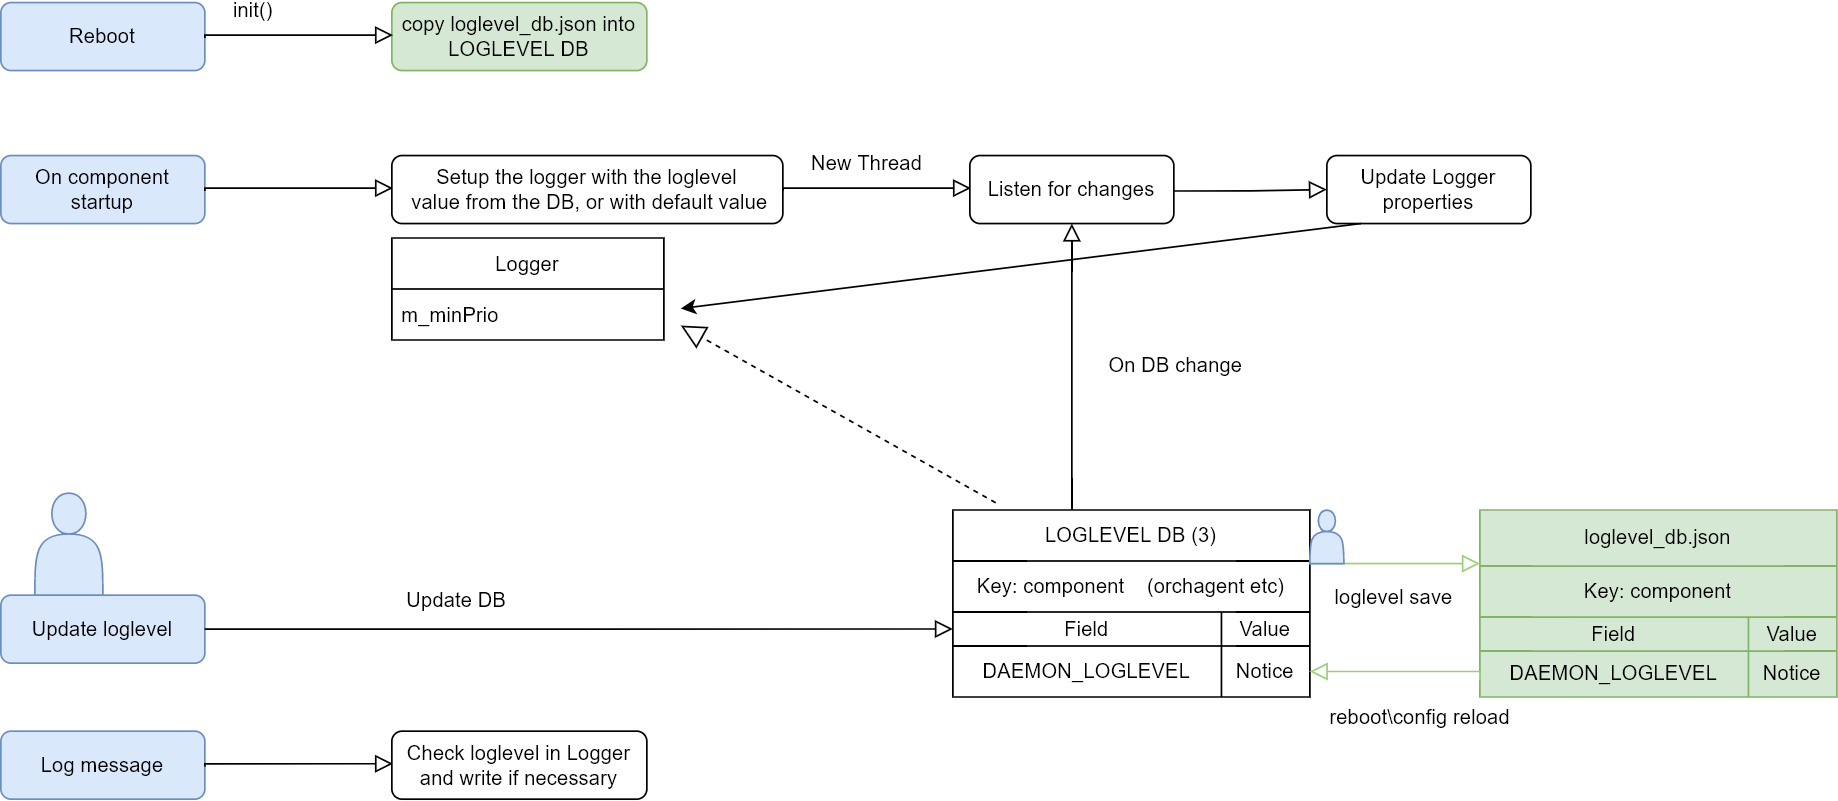
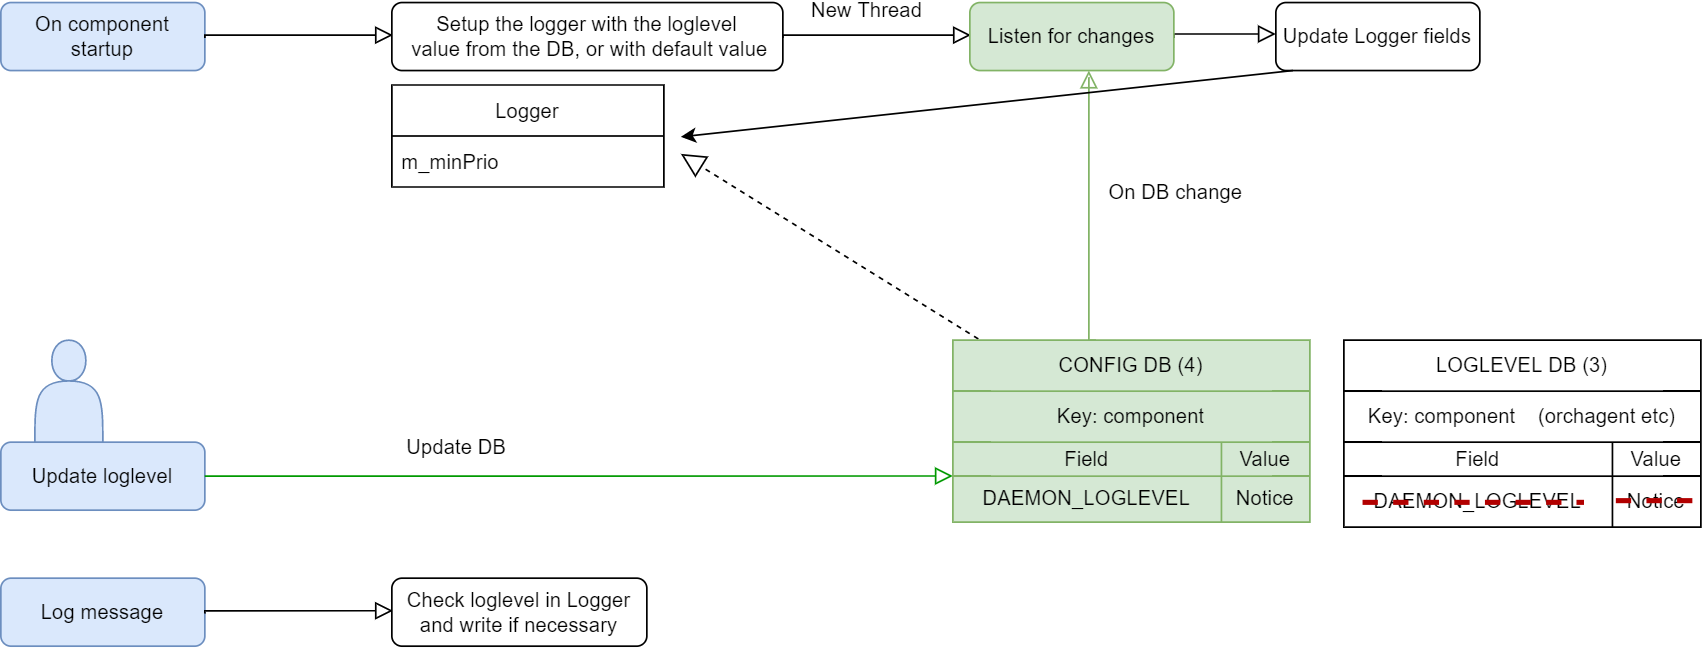
update not removing LOGLEVEL DB

diff --git a/doc/logging/persistent_logger/persistent_loglevel.md b/doc/logging/persistent_logger/persistent_loglevel.md
@@ -1,11 +1,11 @@
-# Persistent logger HLD
+# Persistent log level HLD
 
 # High Level Design Document
 
 #### Rev 0.1
 
 # Table of Contents
-- [Persistent logger HLD](#persistent-logger-hld)
+- [Persistent log level HLD](#persistent-log-level-hld)
 - [High Level Design Document](#high-level-design-document)
       - [Rev 0.1](#rev-01)
 - [Table of Contents](#table-of-contents)
@@ -21,20 +21,22 @@
 - [2 Requirements Overview](#2-requirements-overview)
 - [3 Persistent log level design](#3-persistent-log-level-design)
   - [3.1 High-level design](#31-high-level-design)
-  - [3.2 Persistent logger flow](#32-persistent-logger-flow)
-    - [3.2.1 Return to default log level](#321-return-to-default-log-level)
+    - [3.1.1 Move Logger's tables which store in LOGLEVEL DB to CONFIG DB](#311-move-logger's-tables-which-store-in-loglevel-db-to-config-db)
+    - [3.1.2 Update "swssloglevel" script](#312-update-"swssloglevel"-script)
+    - [3.1.3 Make the log level persistent using the "config save" CLI command](#313-make-the-log-level-persistent-using-the-"config-save"-cli-command)
+    - [3.1.4 Listener thread tables](#314-listener-thread-tables)
+  - [3.2 Persistent Logger flow](#32-persistent-logger-flow)
 - [4 Flows](#4-flows)
   - [4.1 System init flow](#41-system-init-flow)
-  - [4.2 "config reload" flow](#42-"config-reload"-flow)
-  - [4.3 "config save" flow](#43-"config-save"-flow)
-- [5 Warm Reboot Support](#5-warm-reboot-support)
-- [6 Fast Boot Support](#6-fast-boot-support)
-- [7 Testing](#7-Testing)
-  - [7.1 Unit Testing](#71-unit-testing)
-  - [7.2 Manual Testing](#72-manual-testing)
-- [8 Open issues](#8-open-issues)
-  - [8.1 Allow changing the default log level in first boot](#81-allow-changing-the-default-log-level-in-first-boot)
-  - [8.2 Support ZTP configuration](#82-support-ztp-configuration)
+- [5 Cold and Fast Reboot Support](#5-cold-and-fast-reboot-support)
+- [6 Warm Reboot Support](#6-warm-reboot-support)
+- [7 Yang model](#7-yang-model)
+- [8 Testing](#8-testing)
+  - [8.1 Unit Testing](#81-unit-testing)
+  - [8.2 Manual Testing](#82-manual-testing)
+
+
+
 # List of Tables
 * [Table 1: Abbreviations](#definitionsabbreviation)
 
@@ -113,16 +115,44 @@ admin@sonic:~$ redis-cli -n 3 HGETALL "orchagent:orchagent"
 
 The persistent Logger should meet the following high-level functional requirement:
 - The user will be able to save the configuration of the loglevel and make it persistent after reboot.
-- Not impact warm/fast reboot when the user uses the default configuration.
+- Warm/Fast reboot won't be impacted following this change.
 
 # 3 Persistent log level design
 ## 3.1 High-level design
 
-To make the loglevel persistent to reboot, we will move the LOGLEVEL DB content into the Config DB. Since the Config DB is already persistent, the log level will also be persistent to reboot. The log level will be saved using the "config save" CLI command.
+To make the loglevel persistent to reboot, we will move the Logger's tables in LOGLEVEL DB to CONFIG DB. Since the Config DB is already persistent, the log level will also be persistent to reboot. The log level will be saved using the "config save" CLI command.
 
-### 3.1.1 CONFIG DB schema
+### 3.1.1 Move Logger's tables which store in LOGLEVEL DB to CONFIG DB
 
- - A new "LOGGER" table will be added to the CONFIG DB:
+#### Current LOGLEVEL DB schema:
+
+ ```json
+{
+  "orchagent": {
+    "orchagent": {
+      "LOGLEVEL": "INFO",
+      "LOGOUTPUT": "SYSLOG"
+    }
+  },
+
+  "SAI_API_BUFFER": {
+    "SAI_API_BUFFER": {
+      "LOGLEVEL": "SAI_LOG_LEVEL_NOTICE",
+      "LOGOUTPUT": "SYSLOG"
+    }
+  },
+
+  "JINJA2_CACHE": { // A bytecode cache for jinja2 template that stores bytecode in Redis
+    ...
+  }
+}
+```
+
+#### New CONFIG DB schema:
+
+ - A new "LOGGER" table will be added to the CONFIG DB.
+ - There will be a minor change in the table keys(instead of "{componentName}:{componentName}" the key will be  the "Logger:{componentName}").
+ - The filed logoutput that indicates to which file to print the logs will also be persistent.
 
 ```json
 {
@@ -130,28 +160,40 @@ To make the loglevel persistent to reboot, we will move the LOGLEVEL DB content 
     "orchagent": {
       "LOGLEVEL": "INFO",
       "LOGOUTPUT": "SYSLOG"
+    },
+
+    "SAI_API_BUFFER": {
+      "LOGLEVEL": "INSAI_LOG_LEVEL_NOTICEFO",
+      "LOGOUTPUT": "SYSLOG"
     }
   }
 }
 ```
 
- There will be a minor change in the table keys(instead of "{componentName}:{componentName}" the key will be just the "{componentName}").
 
-### 3.1.2 Delete LOGLEVEL DB
-???
- - We will remove LOGLEVEL DB?
- - CHANGE SCHEMA.H NO DB 3
+#### New LOGLEVEL DB schema:
 
-### 3.1.3 Add "config loglevel" CLI command to replace the "swssloglevel" script
+  - After moving the Logger's table from LOGLEVEL DB, the leftover in LOGLEVEL DB will be the JINJA2_CACHE key.
+  - We will update the /sonic-swss-common/common/schema.h file to include the "JINJA2_CACHE" key.
 
-In the current implementation the "swssloglevel" script sets the log level in the LOGLEVEL DB. We will replace the script with a CLI command with the same functionality, execet that the log level will be saved in the CONFIG DB.
+ ```json
+{
+  "JINJA2_CACHE": {
+    ...
+  }
+}
+```
 
-To allow the user to set the default log level value for all the components, we will add a -d flag to the "config loglevel" command.
+### 3.1.2 Update "swssloglevel" script
+
+In the current implementation, the "swssloglevel" script sets the log level in the LOGLEVEL DB.
+- We will update the script so that the log level will be saved in the CONFIG DB.
+- To allow the user to set the default log level value for all the components, we will add a -d flag to the "swssloglevel" script.
 
 ```
-admin@sonic:~$ config loglevel -h
+admin@sonic:~$ swssloglevel -h
 
-Usage: config loglevel [OPTIONS]
+Usage: swssloglevel [OPTIONS]
 SONiC logging severity level setting.
 
 Options:
@@ -161,31 +203,56 @@ Options:
 	 -a	apply loglevel to all components (provided with -l)
 	 -s	apply loglevel for SAI api component (equivalent to adding prefix "SAI_API_" to component)
 	 -p	print components registered in DB for which setting can be applied
-   -d return all components to default loglevel
+         -d return all components to default loglevel
 
 Examples:
-	config loglevel -l NOTICE -c orchagent # set orchagent severity level to NOTICE
-	config loglevel -l SAI_LOG_LEVEL_ERROR -s -c SWITCH # set SAI_API_SWITCH severity to ERROR
-	config loglevel -l SAI_LOG_LEVEL_DEBUG -s -a # set all SAI_API_* severity to DEBUG
-  config loglevel -d #return all components to default loglevel
+	swssloglevel -l NOTICE -c orchagent # set orchagent severity level to NOTICE
+	swssloglevel -l SAI_LOG_LEVEL_ERROR -s -c SWITCH # set SAI_API_SWITCH severity to ERROR
+	swssloglevel -l SAI_LOG_LEVEL_DEBUG -s -a # set all SAI_API_* severity to DEBUG
+        swssloglevel -d #return all components to default loglevel
 ```
+The change is the file: /sonic-swss-common/common/loglevel.cpp
 
-### 3.1.4 Make the log level persistent using the "config save" CLI command
+### 3.1.3 Make the log level persistent using the "config save" CLI command
 
-The content of the CONFIG DB will load into the config_db.json. This is the behavior we have today, and it remains as it is. If the user configures loglevel for some component and runs "config save" the loglevel will be persistent.
+The content of the CONFIG DB will load to the config_db.json. This is our behavior today, and it remains as it is. If the user configures loglevel for some component and runs "config save" the loglevel will be persistent.
 
-### 3.1.5 Listener thread tables
+### 3.1.4 Listener thread tables
 
-In the current implementation, each component has a listener thread that registers to the LOGLEVEL DB table. Each change in the LOGLEVEL DB table is caught by the thread and trigger handler that change the component's Logger configuration. We will keep the same behavior on the CONFIG DB.
+In the current implementation, each component has a listener thread that registers to the LOGLEVEL DB table. Each change in the LOGLEVEL DB table is caught by the thread and trigger handler that change the component's Logger configuration. We will keep the same behavior on the CONFIG DB by changing the "settingThread" function.
+This change will impact the following components:
 
-## 3.2 Persistent logger flow
+buffermgrd                    
+coppmgrd                      
+fdbsyncd                      
+fpmsyncd                      
+gearsyncd                     
+intfmgrd                     
+nbrmgrd
+neighsyncd
+orchagent
+portmgrd                      
+portsyncd                  
+syncd                 
+teammgrd                  
+teamsyncd               
+tlm_teamd                    
+tunnelmgrd                 
+vlanmgrd                      
+vrfmgrd                      
+vxlanmgrd                    
+wjhd   
+
+The change is the file: /sonic-swss-common/common/logger.cpp
+
+## 3.2 Persistent Logger flow
 
 - Each component has a singleton Logger object with a log level property and listener thread.
 - When a component writes a log message, the Logger writes the message only if the loglevel of the message is above the current loglevel property.
-- When the user wants to set a new log level to a component, he uses the "config loglevel" CLI command. The "config loglevel" CLI command sets the new verbosity to the CONFIG DB (database #4).
+- When the user wants to set a new log level to a component, he uses the "swssloglevel" script. The "swssloglevel" script sets the new verbosity to the CONFIG DB (database #4).
 - The CONFIG DB change triggers an event, which is caught by the listener thread.
 - The listener thread changes the loglevel property of the Logger.
-- The user can use the "config save" command to save the current loglevel and make it persistent. It will copy the CONFIG DB content into the config_db.json.
+- The user can use the "config save" command to save the current loglevel and make it persistent. It will copy the CONFIG DB content to the config_db.json.
 
 In addition to the log level, the CONFIG DB contains the log output file. After "config save" the log output will be persistent to reboot too.
 
@@ -195,7 +262,7 @@ In addition to the log level, the CONFIG DB contains the log output file. After 
 
 
 
-![persistent logger flow](/doc/logging/persistent_logger/persistent_loglevel.png)
+![persistent logger flow](/doc/logging/persistent_logger/persistent_logger.png)
 
 
 
@@ -203,31 +270,27 @@ In addition to the log level, the CONFIG DB contains the log output file. After 
 
 
 
-# 4 Flows???????
+# 4 Flows
 
 ## 4.1 System init flow
 
-When the system startup and the Database container initialize, the config_db.json loads into the CONFIG DB.
+When the system startup and the Database container initialize, and the config_db.json loads to CONFIG DB.
  
-  - There is a concern about the log level of messages written before the database container is initialized (if it exists). From my understanding, the RSYSLOG-CONFIG is up only after the DATABASE container, so there won't be logs before the loglevel_db.json loads into the LOGLEVEL DB. In case there are messages before the loading, the messages will be in the default log level.
+  - There is a concern about the log level of messages written before the database container is initialized (if it exists). From my understanding, the RSYSLOG-CONFIG is up only after the DATABASE container, so there won't be logs before the config_db.json loads to the CONFIG DB. In case there are messages before the loading, the messages will be in the default log level.
 
 
 # 5 Cold and Fast Reboot Support
   
-  The current implementation support cold and fast reboot. Sine in the cold and fast reboot, the CONFIG DB content is deleted the user need to run "config save" to make the log level persistent to cold and fast reboot.
+  The current implementation support cold and fast reboot. Sine in the cold and fast reboot, the CONFIG DB content is deleted, the user needs to run "config save" to make the log level persistent to cold and fast reboot.
 
 # 6 Warm Reboot Support
 
-  With current implementation, we don't flush the CONFIG DB before warm-reboot, which means that if the user configures some loglevel (for example, debug), after warm-reboot, the system startup with the same configurable loglevel (debug).
-
-  ?????
-  Because we want to make the log level persistent to reboot only by the "log-level save" CLI command we will add the LOGLEVEL DB to the list of the dbies we flush before warm-reboot.
-  During boot time, in the startup, the loglevel_db.json will load on the LOGLEVEL DB.
+  With the current implementation, we don't flush the CONFIG DB before warm-reboot, which means that if the user configures some loglevel (for example, debug), after warm-reboot, the system startup with the same configurable loglevel (debug).
 
 # 7 Yang model
 
-  The following YANG model will be added in order to provide support for the logger:
-   - sonic-logger.yang -> container LOGGER
+  The following YANG model will be added in order to provide support for the Logger:
+   - sonic-logger.yang
 
    ```
     description "Logger Table yang Module for SONiC";
@@ -287,17 +350,20 @@ When the system startup and the Database container initialize, the config_db.jso
 
 
 # 8 Testing
-
-## 8.1 update existing tests
   
-  - Update logger tests.
-  - Update other tests that use the logger table.
-
 ## 8.1 Unit Testing
-  
+
+  - Update the existing test that uses the LOGLEVEL DB:
+    /sonic-swss-common/tests/logger_ut.cpp
+
+  - Verify the log levels of all components returns to default after running "swssloglevel -d":
+    - Change the log level for some components from Notice to Info.
+    - Run "swssloglevel -d".
+    - Verify all components return to the default log level.
+
   - Yang model tests:
-    - Logger table with wrong loglevel, or with wrong logoutput
-    - Logger table without loglevel or logoutput
+    - Logger table with a wrong loglevel, or with a wrong logoutput
+    - Logger table without loglevel or logoutput fileds
     - Logger table with valid values
 
 ## 8.2 Manual Testing 
@@ -308,21 +374,9 @@ When the system startup and the Database container initialize, the config_db.jso
     - Verify the loglevel.json file was created.
     - Reboot.
     - Verify the log level is "Info".
-  - Verify the log level is not persistent to cold/fast/warm reboot if the user didn't run "config save": 
-    - Change the log level for some component from Notice to Info.
+  - Verify the log level is not persistent to cold/fast reboot if the user didn't run "config save": 
+    - Change the log level for some components from Notice to Info.
     - Reboot.
     - Verify the log level is "Notice".
-  - Verify the log level returns to default ?????? after removing the "loglevel_db.json" file and reboot:
-    - Change the log level for some component from Notice to Info.
-    - Run "log-level save".
-    - Delete loglevel_db.json file.
-    - Reboot.
-    - Verify the log level is "Notice".
-
-# 9 Open issues
-
-  ## 9.1 j2
-  ## 9.2 factory reset
-  ## 9.2 Support ZTP configuration
 
 
